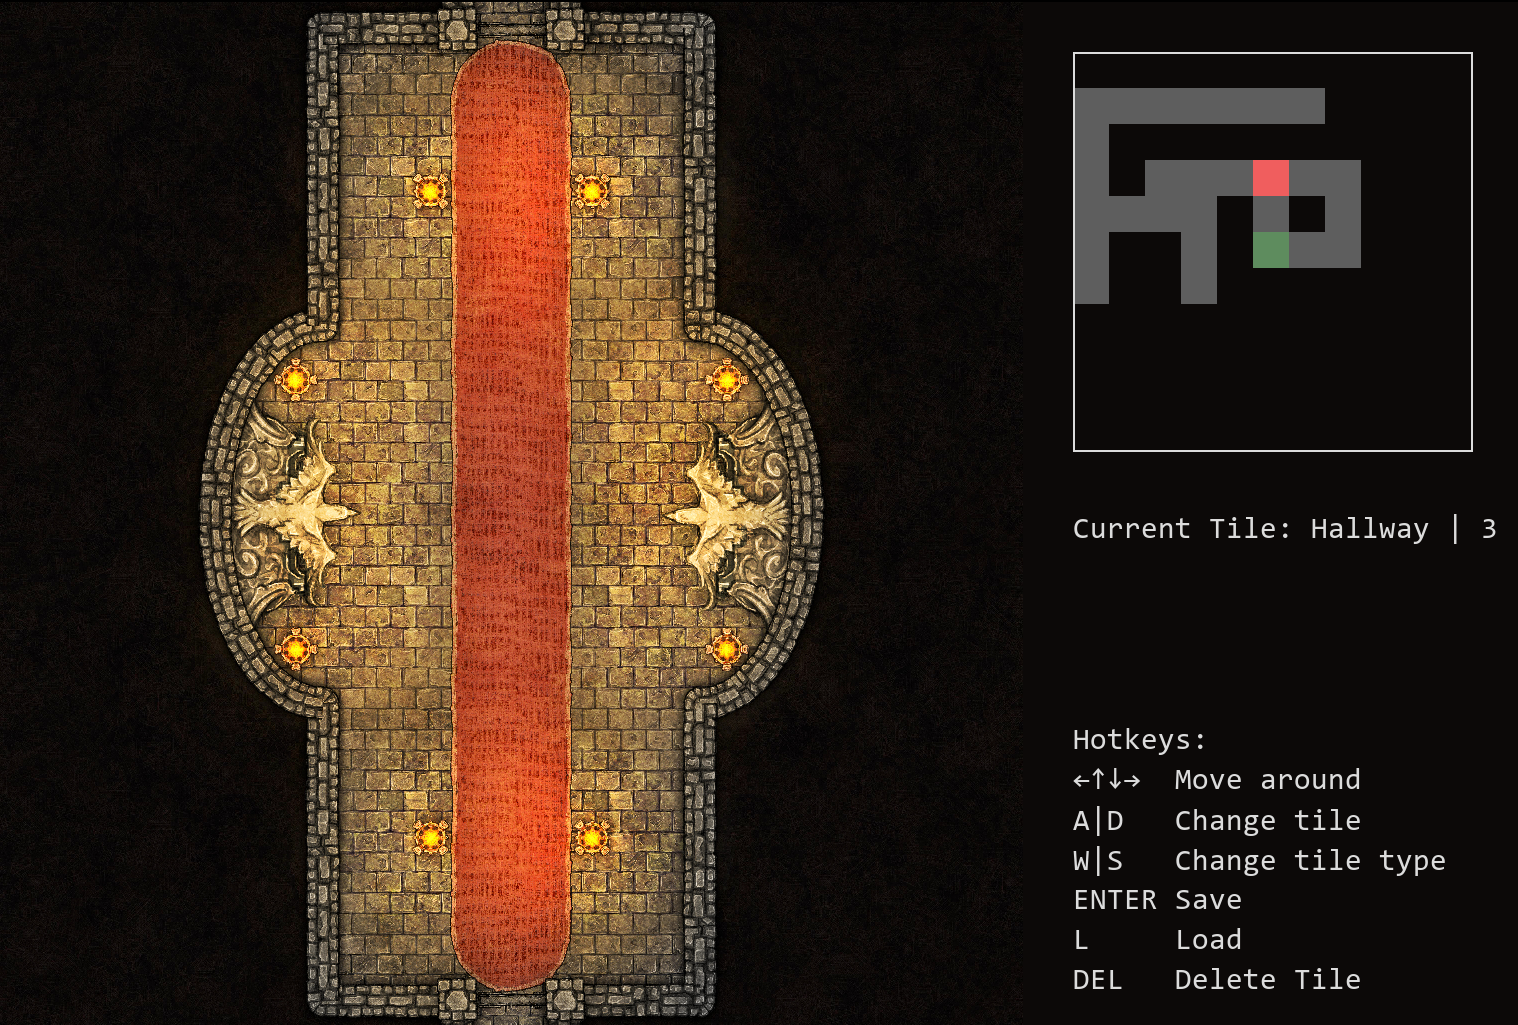
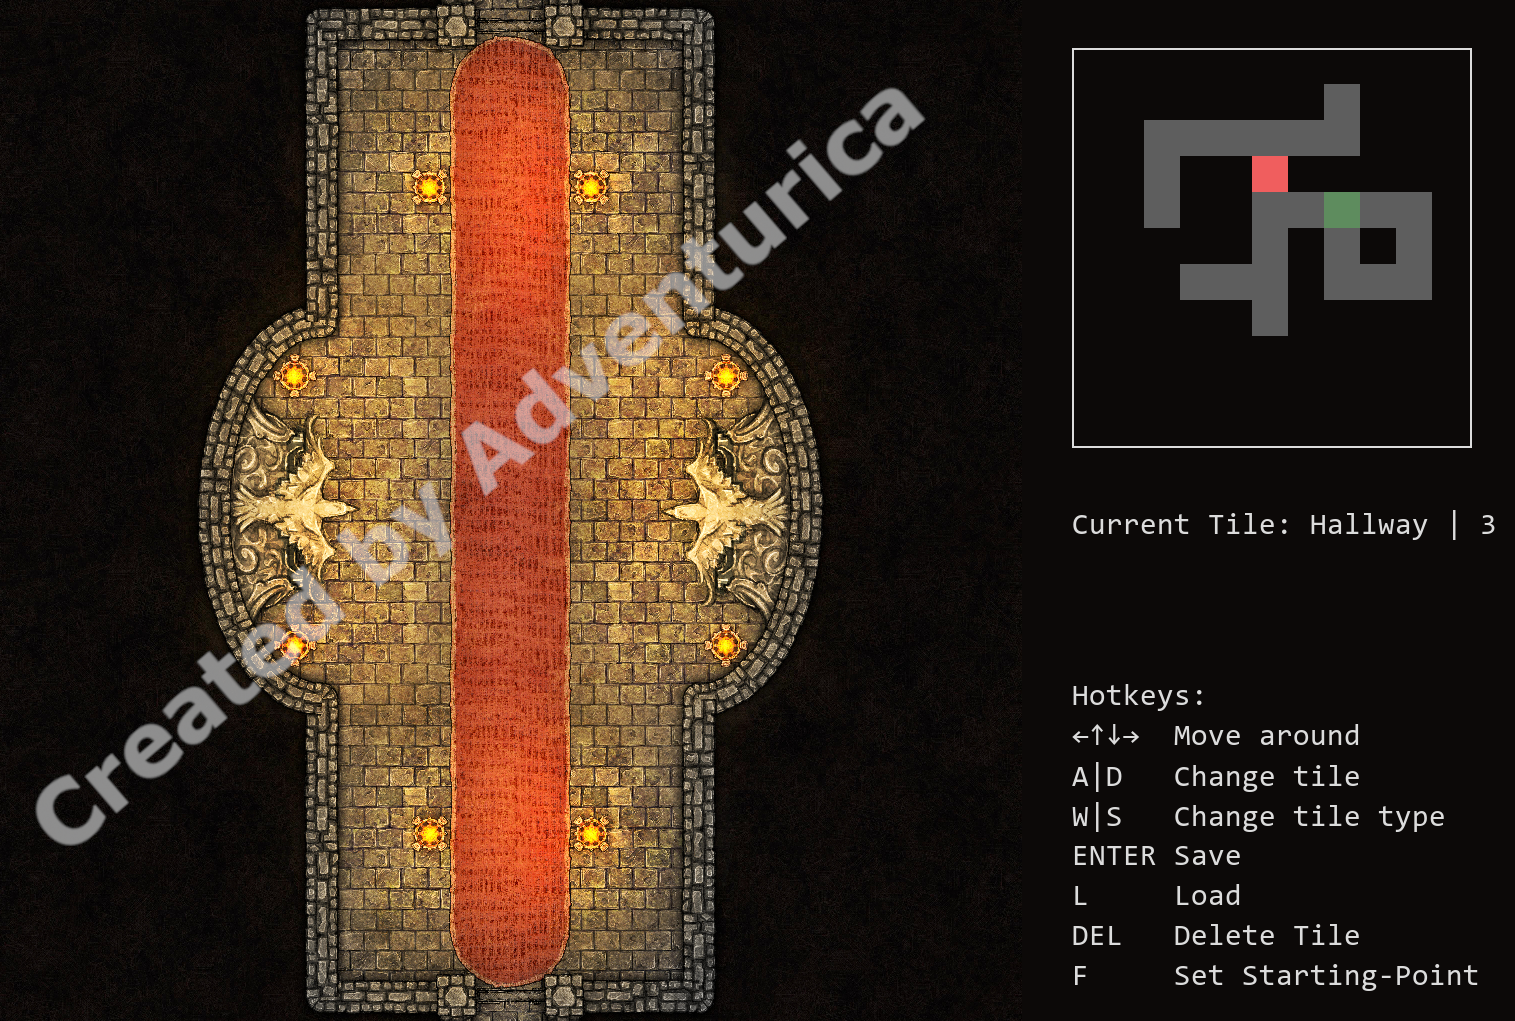
Finished README, Added Hotkey to set starting point and starting point gets saved

diff --git a/Main.py b/Main.py
@@ -1,7 +1,11 @@
+#############################################
+# ONLY EDIT IF YOU KNOW WHAT YOU ARE DOING! #
+#############################################
 import pygame as pg
 import os
 from tkinter import filedialog
 import json
+from Config import *
 
 pg.init()
 
@@ -10,12 +14,12 @@ class Main:
 
 ####### CONFIG #######
 
-        self.SIZE = 1024
+        self.SIZE = WindowSize
         self.SIDEPANELSIZE = 500
         self.MINIMAPMARGIN = 50
-        self.MAPSIZE = 11
-        self.STARTCOORDS = None # default mid, if you want to change it: [x-Value, y-Value]
-        self.EDITMODE = True
+        self.MAPSIZE = MapSize
+        self.STARTCOORDS = [int(self.MAPSIZE/2), int(self.MAPSIZE/2)]
+        self.EDITMODE = EditMode
 
 ####### VARIABLES #######
 
@@ -32,10 +36,7 @@ class Main:
         self.currentType = [0, 0]
 
         self.map = [[None for _ in range(self.MAPSIZE)] for _ in range(self.MAPSIZE)]
-        self.coords = [int(self.MAPSIZE/2), int(self.MAPSIZE/2)]
-        if self.STARTCOORDS:
-            self.coods = self.STARTCOORDS.copy()
-        self.STARTCOORDS = self.coords.copy()
+        self.coords = self.STARTCOORDS.copy()
 
         self.font = pg.font.SysFont("Consolas", 30)
 
@@ -84,14 +85,16 @@ class Main:
         file = filedialog.asksaveasfile(mode='w', defaultextension='.json')
         if not file:
             return
-        json.dump(self.map, file)
+        json.dump([self.STARTCOORDS, self.map], file)
         file.close()
 
     def load(self):
         file = filedialog.askopenfile(defaultextension='.json')
         if not file:
             return
-        self.map = json.load(file)
+        data = json.load(file)
+        self.map = data[1]
+        self.STARTCOORDS = data[0]
         file.close()
 
         for i in self.map:
@@ -110,7 +113,7 @@ class Main:
 
     def drawInfo(self):
         lineSize = 40
-        startY = self.SIZE - 300
+        startY = self.SIZE - 340
         self.screen.blit(self.text(f"Current Tile: {self.types[self.currentType[0]]} | {self.currentType[1]}"), (self.SIZE + self.MINIMAPMARGIN, self.SIZE / 2))
 
         self.screen.blit(self.text("Hotkeys:"), (self.SIZE + self.MINIMAPMARGIN, startY))
@@ -120,6 +123,7 @@ class Main:
         self.screen.blit(self.text("ENTER Save"), (self.SIZE + self.MINIMAPMARGIN, startY + lineSize * 4))
         self.screen.blit(self.text("L     Load"), (self.SIZE + self.MINIMAPMARGIN, startY + lineSize * 5))
         self.screen.blit(self.text("DEL   Delete Tile"), (self.SIZE + self.MINIMAPMARGIN, startY + lineSize * 6))
+        self.screen.blit(self.text("F     Set Starting-Point"), (self.SIZE + self.MINIMAPMARGIN, startY + lineSize * 7))
 
 ### GAME LOOP ###
 
@@ -195,6 +199,8 @@ class Main:
                         if e.key == pg.K_DELETE:
                             self.delete()
 
+                        if e.key == pg.K_f:
+                            self.STARTCOORDS = self.coords.copy()
             self.screen.fill('#0c0908')
 
             self.drawCurrentTile()

diff --git a/Config.py b/Config.py
@@ -1,0 +1,3 @@
+WindowSize = 1024   # Default 1024  | How big should the shown image be in px. Sidepanel in editmode excluded
+MapSize = 11        # Default 11    | How many Tiles you want in your map
+EditMode = True     # Defualt True  | Should the program start in editmode

diff --git a/README.md b/README.md
@@ -3,11 +3,41 @@ This little programm lets you create tilebased dungeons for your TTRPG.
 I have used the Stone Assets of [Adventurica's](https://www.kickstarter.com/projects/840112518/dungeon-builders-toolkit-modular-maps-for-ttrpgs-and-dandd/creator_bio) [Dungeon Builders Toolkit](https://www.kickstarter.com/projects/840112518/dungeon-builders-toolkit-modular-maps-for-ttrpgs-and-dandd/description) but you can use any images you want, as long as they are in a 1:1 ratio ;)
 
 ## Features
-There is a editmode with a minimap and some more info on how to use this programm. If you turn it off, the minimap and info will also disappear and the programm will start in fullscreen. If you are not in editmode, you can't move past existing tiles. In editmode to create a new tile, simply move to a free space. The red square on the minimap is you and the green one is your staring point which you can't delete. You can save and load your dungeons too!
+There is a editmode with a minimap and some more info on how to use this programm. If you turn it off, the minimap and info will also disappear and the programm will start in fullscreen. If you are not in editmode, you can't move past existing tiles. In editmode to create a new tile, simply move to a free space. The red square on the minimap is you and the green one is your staring point which you can't delete but move wherever you want it. You can save and load your dungeons too!
+
+![](./.screenshots/image.png)
 
 ## Installation Guide
 ### Dependencies
 1. Install python from https://www.python.org/downloads/
 2. Install pygame
 ```python
+pip install pygame
 ```
+
+### Asset Configuration
+1. Sort all images by how many entrances each tile has in different folders. E.g:
+```
+├───Tiles
+│   ├───OneWay
+│   ├───TwoWay
+│   ├───ThreeWay
+│   ├───FourWay
+│   └───Hallway
+```
+2. Rename all files in each folder to a descending number.
+```
+├───OneWay
+│   ├───1.jpg
+│   ├───2.jpg
+│   ...
+├───TwoWay
+│   ├───1.jpg
+│   ├───2.jpg
+...
+```
+
+### Conifg
+The Config has comments which explain everything ;)
+
+Have Fun!
